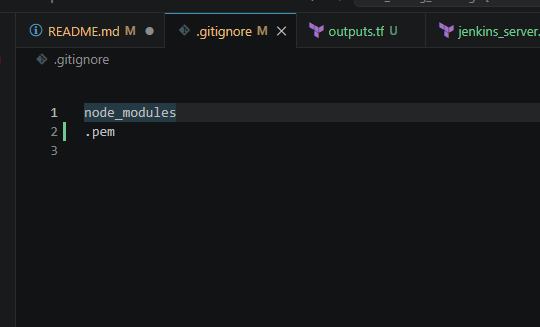
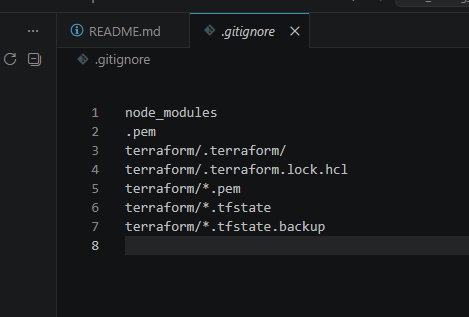
update gitignore

diff --git a/README.md b/README.md
@@ -1310,7 +1310,22 @@ chmod 400 1PU.pem
 
 ```
 
-31. add the .pem extension to the .gitignore file
+31. add items to the .gitignore file
+
+```
+
+node_modules
+.pem
+terraform/.terraform/
+terraform/.terraform.lock.hcl
+terraform/*.pem
+terraform/*.tfstate
+terraform/*.tfstate.backup
+
+
+```
+
+
 ![Git Ignore File](/screenshots/git_ignore.png)
 
 
